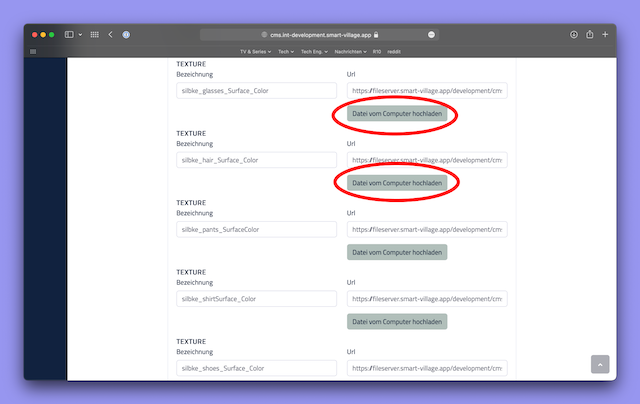
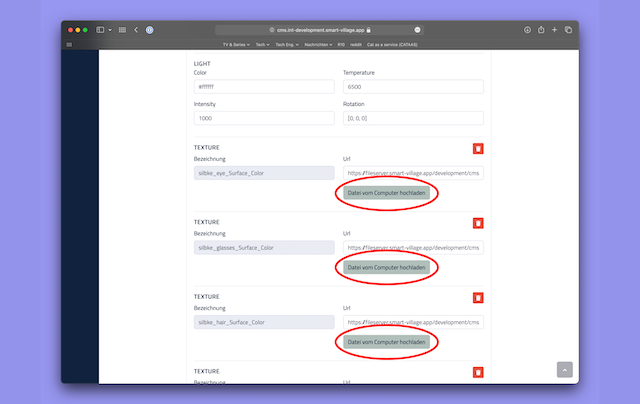
docs(ar): update document with light prop
- added information on how to edit the light
  prop (light prop information taken from `Viro`
  document)
- added screenshot and text showing the new
  scene creation button

SVA-568

diff --git a/docs/AR.md b/docs/AR.md
@@ -35,6 +35,11 @@ The information required to use the Augmented Reality feature will be specified 
 ![](./assets/ModelUpload/ModelUpload7.png)
 
 - To find out what types of files (materials) you can upload, see the [next section](#materials-that-can-be-added-to-a-scene)
+
+- Press the `AR Scene Hinzufügen` button to add a new Augmented Reality scene
+
+![](./assets/ModelUpload/ModelUpload9.png)
+
 - After entering all the information, press the save button
 
 ![](./assets/ModelUpload/ModelUpload8.png)
@@ -50,6 +55,8 @@ The information required to use the Augmented Reality feature will be specified 
 - **MP3:** If you want a sound file in Augmented Reality scene, upload it to this section (Optional) [ViroSound](https://viro-community.readme.io/docs/virosound)
 - **MP4:** If you want a video on Augmented Reality scene, please upload it to this section (Optional) [ViroVideo](https://viro-community.readme.io/docs/virovideo)
 - **IMAGE:** If you want a picture in the Augmented Reality scene, upload it to this section (Optional) [ViroImage](https://viro-community.readme.io/docs/viroimage)
+- **Light:** If you wish, you can change the lighting settings of the scene from this tab (Optional)
+[ViroAmbientLight](https://viro-community.readme.io/docs/viroambientlight)
 - **TEXTURE:** The section where you can upload the multiple texture files required for the 3D model (Required)
   - :warning: Each texture file has a specific name. Please enter this specific name in the name field. Otherwise there will be a problem in displaying the 3D model.
 
@@ -94,6 +101,22 @@ This shows, that the texture name needs to be the same as the name of the textur
     - _Rolloff model_ - The rolloff model which determines how the sound volume will fall off between _Min distance_ and _Max distance_. Can take `None`, `Linear` & `Logarithmic` values as String
 - **MP4:**
   - _Chroma key filtered video_ - If the video you want to add to the Augmented Reality scene has a background color that you want to delete, add the color code in HEX format here. Example: #00FF00 (String)
+- **Light:**
+  - _Color_ - The color of the light. The default light color is white. Valid color formats are:
+    - '#f0f' (#rgb)
+    - '#f0fc' (#rgba)
+    - '#ff00ff' (#rrggbb)
+    - '#ff00ff00' (#rrggbbaa)
+    - 'rgb(255, 255, 255)'
+    - 'rgba(255, 255, 255, 1.0)'
+    - 'hsl(360, 100%, 100%)'
+    - 'hsla(360, 100%, 100%, 1.0)'
+    - 'transparent'
+    - 'red'
+    - 0xff00ff00 (0xrrggbbaa)
+  - _Temperature_ - The temperature of the light, in Kelvin. Viro will derive a hue from this temperature and multiply it by the light's color. To model a physical light with a known temperature, you can leave the color of this Light set to (1.0, 1.0, 1.0) and set its temperature only. The default value for temperature is 6500K, which represents pure white light. (Number)
+  - _Intensity_ - The brightness of the light. Set to 1000 for normal intensity. The intensity is simply divided by 1000 and multiplied by the light's color. Lower intensities will decrease the brightness of the light, and higher intensities will increase the brightness of the light. The default intensity is 1000. (Number)
+  - _Rotation_ - The rotation of the component around it's local axis specified as Euler angles [x, y, z]. Units for each angle are specified in degrees. (Array[Number])
 
 ## View AR added in a tour stop in the app
 
